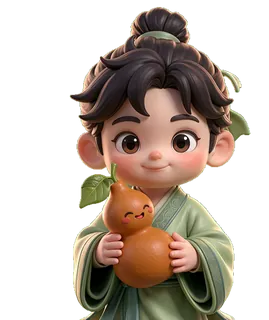
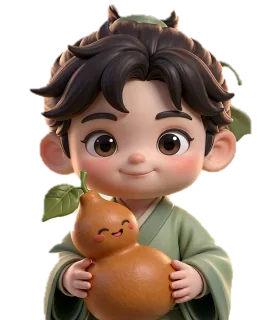
v125-v126: 百草试炼题库扩充至104题(安全分级/体质禁忌/现代药理风险/名方/经络/四时/本草辨识);删互动金句四季装束前缀;经典待机图与互动动图重做大头半身形象(与四季统一,点击零跳变)

diff --git a/common.js b/common.js
@@ -1933,7 +1933,7 @@ function go(p){location.href=(p==="home"?"index":p)+".html";}
     const k=curSkin,sk=SKINS[k];
     let t;
     if(tipSkin!==k){
-      if(sk.season){const g=SEASON_GREET[sk.season];t=`【${sk.season}季装束 · ${sk.name}】「${g.q}」${g.w}`;}
+      if(sk.season){const g=SEASON_GREET[sk.season];t=`「${g.q}」${g.w}`;}
       else t=pick(TIPS);
       tipSkin=k;
     }else t=pick(SKIN_TIPS[k]);
@@ -2025,7 +2025,13 @@ const BOOK_QS=[
  {q:"\u201c凡病温者，始于上焦，在手太阴\u201d出自？",opts:["温病条辨","伤寒论","难经","千金方"],a:"温病条辨",fb:"温病从口鼻而入、先伤于肺——\u201c清热\u201d一脉的理论总纲。"},
  {q:"《本草纲目》初刊于明代哪一年？",opts:["1578 年","1596 年","1602 年","1612 年"],a:"1596 年",d:1,fb:"1578 年成书、1596 年金陵初刊——52 卷巨著，历时 27 年、三易其稿。"},
  {q:"《黄帝内经》由哪两部分组成？",opts:["《素问》与《灵枢》","《伤寒》与《金匮》","《本经》与《别录》","《甲乙》与《脉经》"],a:"《素问》与《灵枢》",d:1,fb:"《素问》重医理、《灵枢》重经络针刺，二者合称《内经》，中医理论的源头活水。"},
- {q:"被后世誉为\u201c东方药物巨典\u201d的是？",opts:["本草纲目","千金方","温病条辨","神农本草经"],a:"本草纲目",d:1,fb:"《本草纲目》集明代以前药物学之大成，被译成多种文字远播海外。"}
+ {q:"被后世誉为\u201c东方药物巨典\u201d的是？",opts:["本草纲目","千金方","温病条辨","神农本草经"],a:"本草纲目",d:1,fb:"《本草纲目》集明代以前药物学之大成，被译成多种文字远播海外。"},
+ {q:"「观其脉证，知犯何逆，随证治之」这句辨证心法出自？",opts:["伤寒论","黄帝内经","难经","温病条辨"],a:"伤寒论",d:1,fb:"仲景强调辨证论治：看清脉证、随证施治，是《伤寒论》的灵魂。",root:"《伤寒论·太阳病篇》原文「观其脉证，知犯何逆，随证治之」——意为审察脉象证候，辨明曾经误治的偏差，再随证救治，是「辨证论治」四个字最经典的出处。"},
+ {q:"「医之始，本岐黄；灵枢作，素问详」出自哪部入门读物？",opts:["医学三字经","汤头歌诀","难经","本草纲目"],a:"医学三字经",fb:"陈修园把中医源流编成三字韵语，开篇就是这四句。",root:"《医学三字经·医学源流第一》原文「医之始，本岐黄；灵枢作，素问详；难经出，更洋洋；越汉季，有南阳」——把先秦到汉代医史串成三字歌诀，是医史入门第一书。"},
+ {q:"被后世尊称为「药王」的唐代医家是？",opts:["孙思邈","张仲景","李时珍","葛洪"],a:"孙思邈",fb:"孙思邈著《千金方》、立《大医精诚》，被尊为药王。",root:"孙思邈是唐代京兆华原人，以「人命至重，有贵千金」命名《千金方》，开篇《大医精诚》成为中国医德千古典范；相传享年百余岁，民间尊称「药王」。"},
+ {q:"提出「内伤脾胃，百病由生」、创制补中益气汤的医家是？",opts:["李东垣","张仲景","吴鞠通","王清任"],a:"李东垣",d:1,fb:"金元四大家之一、补土派宗师李东垣，著《脾胃论》。",root:"李杲号东垣老人，金元四大家之一。战乱饥馑中他见百姓多因劳倦伤脾致病，遂著《脾胃论》，提出「内伤脾胃，百病由生」，创补中益气汤，被誉「医之有李东垣，如儒家之有孟子」。"},
+ {q:"明末吴又可著《温疫论》，提出哪一致病学说？",opts:["戾气","六淫","七情","疠风"],a:"戾气",d:1,fb:"吴有性提出「戾气」致病，认为瘟疫由特殊之气口鼻而入。",root:"吴有性（字又可）目睹崇祯年间大疫，发现套用伤寒法无效，遂深入疫区观察，著《温疫论》提出「戾气」致病——一种气致一种病、可由口鼻而入，比西方病原微生物学说早了两个多世纪。"},
+ {q:"清代王清任为订正古医书脏腑图，采取了什么实证做法？",opts:["多次赴义冢、刑场实地观察人体","纯靠注释古籍推想","遍访名医口述","依《内经》原文重绘"],a:"多次赴义冢、刑场实地观察人体",d:1,fb:"王清任亲赴义冢刑场观察人体，绘《亲见改正脏腑图》。",root:"王清任（字勋臣）是清代最具实证精神的医家，为订正古书脏腑之误，多次到义冢、刑场实地观察尸体，绘《亲见改正脏腑图》，并据气血理论创血府逐瘀汤等逐瘀诸方，书名直白就叫《医林改错》。"}
 ];
 /* 全站通考点题库：中医药文化知识点（体质辨识、药性理论、养生文化）——每题带 root 根源探究 */
 const SITE_QS=[
@@ -2046,7 +2052,65 @@ const SITE_QS=[
  {q:"湿热质的人面部油腻、口苦口臭，哪种做法最不妥？",opts:["饮食清淡、少油腻","适当用金银花、绿豆清利","长期大量服用黄芩清热","规律作息、少熬夜"],a:"长期大量服用黄芩清热",fb:"湿热质宜清热利湿、饮食清淡；但黄芩苦寒伤胃，长期大量服用反伤脾胃。",root:"本站湿热质档案提醒「请勿自行将黄芩等药材当饭吃，需遵医嘱」；现代药理也提示黄芩苦寒，长期大量可致胃部不适、腹泻——清热也要讲分寸。"},
  {q:"孕妇最应避免自行服用下列哪类药材？",opts:["活血通经、可能动胎的药材","平和的食药两用食材","补气健脾的常规食材","富含纤维的普通食物"],a:"活血通经、可能动胎的药材",fb:"本站多味药标注「孕妇忌用」：如益母草对子宫有兴奋作用、红花活血动血、桃仁有小毒——孕期切莫自行服用。",root:"孕期用药是高风险的领域：本站 HERB_PHARM 里红花、益母草、桃仁、三七等均标「孕妇忌用/慎用」，因为活血、兴奋子宫或含毒性成分可能引起宫缩或出血——这类问题必须当面问妇产科医生。"},
  {q:"本站提示：丹参、三七与抗凝药（如华法林）同用会怎样？",opts:["增强补气效果","可能增加出血风险，须医师指导","完全没有影响","一定能防治血栓"],a:"可能增加出血风险，须医师指导",d:1,fb:"活血类中药与抗凝药叠加可能增加出血风险——正在服西药的人，加中药前先问医生。",root:"这是本站「现代药理风险」提示的重点：丹参、三七、红花等活血药与华法林等抗凝药同用会叠加抗凝作用，可能增加出血风险；「中药天然无毒」是误区，中西药同服必须告知医生。"},
- {q:"关于甘草长期大量服用的现代药理风险，正确的是？",opts:["完全安全，可当日常饮品长期喝","可能引起水钠潴留、血压升高","只会伤肝，与血压无关","越喝越能补气"],a:"可能引起水钠潴留、血压升高",d:1,fb:"甘草长期大剂量可致假性醛固酮增多症——水钠潴留、血压升高，高血压、水肿者尤须慎用。",root:"本站把甘草列为 🟢 药食同源，但在 HERB_PHARM 里明确标注：长期大剂量服用可能引起水钠潴留、血压升高（假性醛固酮增多症）——这就是「绿标也要适量」的最好例证，还反藜芦、反甘遂大戟海藻芫花。"}
+ {q:"关于甘草长期大量服用的现代药理风险，正确的是？",opts:["完全安全，可当日常饮品长期喝","可能引起水钠潴留、血压升高","只会伤肝，与血压无关","越喝越能补气"],a:"可能引起水钠潴留、血压升高",d:1,fb:"甘草长期大剂量可致假性醛固酮增多症——水钠潴留、血压升高，高血压、水肿者尤须慎用。",root:"本站把甘草列为 🟢 药食同源，但在 HERB_PHARM 里明确标注：长期大剂量服用可能引起水钠潴留、血压升高（假性醛固酮增多症）——这就是「绿标也要适量」的最好例证，还反藜芦、反甘遂大戟海藻芫花。"},
+ {q:"本站 🟡 黄标「常用本草·需辨体质」的正确理解是？",opts:["完全无毒可随意久服","各有偏性须辨证、入膳少量短期","只能外用不可入口","孕妇儿童都能长期进补"],a:"各有偏性须辨证、入膳少量短期",fb:"黄标药各有偏性，须结合体质辨证，久服遵医嘱。",root:"本站 SAFE_META 定义黄标为「常用本草·需辨体质」：这类药是临床常用中药材，各有偏性，须结合体质与证候辨证使用；入膳宜少量、短期，久服或用于调理请遵医嘱。"},
+ {q:"下列哪味药在本站被标为 🔴 红标（特殊/有毒）？",opts:["半夏","生姜","大枣","山药"],a:"半夏",fb:"半夏生品有毒，须姜矾炮制并遵医嘱，属红标。",root:"本站红标共四味：麻黄、半夏、大黄、桃仁。半夏生品有毒，误食可致口舌麻木、喉头水肿甚至窒息，须经姜、矾等炮制并遵医嘱使用，反乌头——正是「特殊/有毒须遵医嘱」的典型。"},
+ {q:"本站本草名录的 🔴 红标药一共有几味？",opts:["2 味","4 味","8 味","12 味"],a:"4 味",d:1,fb:"红标共四味：麻黄、半夏、大黄、桃仁。",root:"查本站 HERB_SAFE 分级，special（红标）恰好四味：麻黄、半夏、大黄、桃仁——或含毒性成分、或药性峻猛、或有成瘾与出血风险，本站仅作学术科普，严禁自行服用。"},
+ {q:"下列哪一组药全部属于本站 🟢 绿标（药食同源）？",opts:["山药、莲子、生姜","麻黄、半夏、大黄","当归、川芎、桃仁","石膏、黄连、附子"],a:"山药、莲子、生姜",fb:"山药莲子生姜都是日常可食的药食同源之品。",root:"本站绿标（food）多为日常食材或药食两用之品，山药、莲子、生姜、大枣、枸杞子等皆在其中；而麻黄、半夏、大黄是红标，当归、川芎是黄标——绿标的核心是「药性平和、可入膳」。"},
+ {q:"关于 🟢 绿标药「药食同源」，下列哪项说法正确？",opts:["绿标绝对安全，可无限量长期吃","仍需辨体质、适量，甘草大量可升压","绿标药不能做任何菜","绿标药孕妇儿童都能随意进补"],a:"仍需辨体质、适量，甘草大量可升压",d:1,fb:"绿标不代表零风险——甘草长期大量服用可升高血压。",root:"本站每味绿标药都附体质标签与禁忌：甘草虽是绿标，但 HERB_PHARM 明确标注长期大剂量可致水钠潴留、血压升高（假性醛固酮增多症）；生姜腐烂含黄樟素、白扁豆生品含凝集素——「是药三分毒」，绿标也要适量。"},
+ {q:"本站对 🔴 红标药的展示口径是？",opts:["仅作学术科普、严禁自行服用，须医师处方","鼓励日常泡水代茶饮","可作为食疗推荐","可自行采买配伍"],a:"仅作学术科普、严禁自行服用，须医师处方",fb:"红标药本站仅作学术科普，切勿自行采买服用。",root:"本站 SAFE_META 明确：红标药「具有毒性或药性峻猛，本站仅作学术科普展示，切勿自行采买、配伍或服用；须凭执业医师处方并在专业指导下使用」——这是安全分级最硬的一条红线。"},
+ {q:"阳虚质的人最适合的调养方向是？",opts:["温阳散寒、晒背保暖","大量饮冷茶清热","长期熬夜耗阴","久居阴冷潮湿"],a:"温阳散寒、晒背保暖",fb:"阳虚畏寒喜暖，宜温阳散寒、晒背艾灸、食生姜羊肉。",root:"本站阳虚质档案：阳气不足、畏寒喜暖、手足不温，宜温阳散寒、晒背、保暖、艾灸下焦，可食生姜、羊肉等温性食物；忌生冷瓜果、久处阴冷与过用寒凉。"},
+ {q:"阳虚质最应避开的是？",opts:["生冷瓜果、久处阴冷","晒背和温补","艾灸关元","温性食物"],a:"生冷瓜果、久处阴冷",fb:"阳虚忌生冷与阴冷环境。",root:"阳虚质「阳虚则外寒」，本站 TZ_EXTRA 明确其禁忌为忌生冷瓜果、久处阴冷与过用寒凉——阳气本就不足，再贪凉只会雪上加霜。"},
+ {q:"阴虚质的典型表现是？",opts:["手足心热、口干咽燥、易失眠","畏寒肢冷、喜热饮","身重困倦、口黏苔腻","面色萎黄、气短乏力"],a:"手足心热、口干咽燥、易失眠",fb:"阴虚生内热，故手足心热、口干、盗汗失眠。",root:"本站阴虚质画像：阴液亏少、手足心热、口干咽燥、潮热盗汗、易失眠、舌红少津——「阴虚则热」是阴不制阳、虚火内生的表现，宜滋阴润燥、忌熬夜辛辣。"},
+ {q:"按本站对应关系，阴虚质的调养基础方是？",opts:["六味地黄丸","四君子汤","二陈汤","玉屏风散"],a:"六味地黄丸",d:1,fb:"阴虚宜滋阴补肾，对应六味地黄丸。",root:"本站 CONSTITUTIONS 为阴虚质配的书是「六味地黄丸」，TZ_EXTRA 的方剂 f 也是六味地黄丸——三补三泻、滋阴补肾，正对阴虚火旺、腰膝酸软、盗汗遗精之证。"},
+ {q:"痰湿质的典型表现是？",opts:["体形偏胖、腹部松软、口黏苔腻","皮肤干燥、口干舌红","面色晦暗、瘀斑固定","神情抑郁、胸胁胀满"],a:"体形偏胖、腹部松软、口黏苔腻",fb:"痰湿凝聚，故体胖腹软、身重口黏、苔白厚腻。",root:"本站痰湿质画像：痰湿凝聚、体形偏胖、腹部松软、身重不爽、口黏、舌苔白厚腻——「胖人多痰湿」，宜健脾祛湿、微汗运动，忌甜腻油荤与久坐。"},
+ {q:"按本站对应关系，痰湿质的调养基础方是？",opts:["二陈汤","六味地黄丸","血府逐瘀汤","逍遥散"],a:"二陈汤",d:1,fb:"痰湿宜燥湿化痰，对应二陈汤。",root:"本站 TZ_EXTRA 为痰湿质配方「二陈汤」——半夏、陈皮以陈久者良，燥湿化痰、理气和中，是治湿痰的基础方，正合痰湿质健脾祛湿之需。"},
+ {q:"血瘀质适合的日常食材是？",opts:["山楂、黑木耳","冷饮、冰品","肥甘厚味","生冷瓜果"],a:"山楂、黑木耳",fb:"血瘀宜活血，山楂黑木耳是常见活血食材。",root:"本站血瘀质档案建议「可适当食用山楂、黑木耳等活血食材」——血瘀质肤色晦暗、易生瘀斑、痛处固定如刺，宜行气活血、多舒展运动，忌久坐久卧与寒凝血涩。"},
+ {q:"按本站对应关系，血瘀质的调养基础方是？",opts:["血府逐瘀汤","补中益气汤","小柴胡汤","藿香正气散"],a:"血府逐瘀汤",d:1,fb:"血瘀宜活血化瘀，对应王清任血府逐瘀汤。",root:"本站 TZ_EXTRA 为血瘀质配方「血府逐瘀汤」——出自王清任《医林改错》，活血化瘀、行气止痛，主治胸中血瘀、痛如针刺而有定处，是活血逐瘀的代表方。"},
+ {q:"按本站对应关系，气郁质的调养基础方是？",opts:["逍遥散","六味地黄丸","二陈汤","肾气丸"],a:"逍遥散",d:1,fb:"气郁宜疏肝解郁，对应逍遥散。",root:"本站 TZ_EXTRA 为气郁质配方「逍遥散」——柴胡、当归、白芍等疏肝解郁、养血健脾，主治肝郁血虚脾弱之两胁作痛、神疲食少、月经不调，「逍遥」二字即谓肝郁得疏则身心逍遥。"},
+ {q:"按本站对应关系，特禀质的调养基础方是？",opts:["玉屏风散","四物汤","龙胆泻肝汤","补中益气汤"],a:"玉屏风散",d:1,fb:"特禀易过敏，宜益气固表，对应玉屏风散。",root:"本站 TZ_EXTRA 为特禀质配方「玉屏风散」——黄芪、白术、防风三味如御风之屏障，益气固表止汗，适合表虚不固、易感风邪者；特禀质重在避开过敏原、益气固表，忌盲目进补。"},
+ {q:"特禀质日常调养最关键的是？",opts:["避开明确过敏原、记录诱因并益气固表","大量进补名贵药材","频繁试用新药新食","长期熬夜不忌口"],a:"避开明确过敏原、记录诱因并益气固表",fb:"特禀质重在避过敏原、益气固表、记录诱因。",root:"本站特禀质档案：先天禀赋特殊、易过敏，宜益气固表、饮食清淡、规律作息并记录诱因，避开明确致敏之物；忌盲目进补、随意试用新药新食——即使用玉屏风类成药也须遵医嘱。"},
+ {q:"平和质的调养原则是？",opts:["不必刻意进补，顺应四时、饮食有节即可","长期大温大寒进补","大量服活血药","严格忌口只吃素食"],a:"不必刻意进补，顺应四时、饮食有节即可",fb:"平和质阴阳调和，保持规律作息即可，无需刻意进补。",root:"本站 TZ_EXTRA 平和质档案：体态适中、面色红润、精力充沛，对外界适应力强；调养只需「顺应四时，食饮有节、起居有常，保持适度运动」，不必刻意进补，忌长期大温大寒或过食肥甘。"},
+ {q:"按本站九种体质分组，气虚质、阳虚质、阴虚质同属哪一类？",opts:["虚性偏颇（deficient）","实性偏颇（excess）","特禀类","平和类"],a:"虚性偏颇（deficient）",d:1,fb:"九分法把气虚阳虚阴虚归为虚性偏颇体质。",root:"本站 TZ_EXTRA 用 g 字段给体质分组：平和质为 balanced；气虚、阳虚、阴虚为 deficient（虚性偏颇）；痰湿、湿热、血瘀、气郁为 excess（实性偏颇）；特禀为 special——这是本站体质卡分组着色的依据。"},
+ {q:"按本站九种体质分组，痰湿质、湿热质、血瘀质、气郁质同属哪一类？",opts:["实性偏颇（excess）","虚性偏颇（deficient）","平和类","特禀类"],a:"实性偏颇（excess）",d:1,fb:"这四种同属实性偏颇体质。",root:"本站 TZ_EXTRA 的 g 分组：痰湿、湿热、血瘀、气郁均为 excess（实性偏颇），多因痰、湿、瘀、郁等病理产物积聚；调养以祛邪为主——健脾祛湿、清热利湿、活血化瘀、疏肝理气。"},
+ {q:"本站提示：大黄长期大量服用可能导致什么？",opts:["电解质紊乱、结肠黑变病及药物依赖","增强免疫力","补气养血","毫无影响"],a:"电解质紊乱、结肠黑变病及药物依赖",d:1,fb:"大黄含蒽醌类，久服可致结肠黑变病与依赖。",root:"本站 HERB_PHARM 标注：大黄含蒽醌类成分，长期大量服用可能导致电解质紊乱、结肠黑变病及药物依赖；脾胃虚弱、气血亏虚、孕妇及哺乳期忌用，不宜久服——「大黄泻火」须中病即止。"},
+ {q:"桃仁（本站标「有小毒」）所含的毒性相关成分是？",opts:["苦杏仁苷","麻黄碱","黄樟素","凝集素"],a:"苦杏仁苷",d:1,fb:"桃仁含苦杏仁苷，生品或大量可致头晕恶心。",root:"本站 HERB_PHARM：桃仁含苦杏仁苷，生品或大量服用可致头晕、恶心甚至呼吸抑制（有小毒）；须炮制、打碎并控制用量，孕妇忌用，血虚无瘀者不宜——这就是本站把桃仁列红标的原因。"},
+ {q:"半夏生品误食可能出现的反应是？",opts:["口舌麻木、喉头水肿甚至窒息","只是微苦无碍","轻度提神","完全无毒"],a:"口舌麻木、喉头水肿甚至窒息",fb:"半夏生品有毒，误食可致口舌麻木、喉头水肿。",root:"本站 HERB_PHARM：半夏生品有毒，误食可致口舌麻木、喉头水肿甚至窒息；须经姜、矾等炮制并遵医嘱使用，反乌头，阴虚燥咳、血证者慎用——生品绝不可自行食用。"},
+ {q:"白扁豆生品未煮熟可能引起什么？",opts:["恶心、呕吐、腹痛","增强食欲","补气见效","无任何风险"],a:"恶心、呕吐、腹痛",fb:"白扁豆生品含凝集素，须彻底煮熟。",root:"本站 HERB_PHARM：白扁豆生品含凝集素，未煮熟可能引起恶心、呕吐、腹痛；须彻底加热煮熟，寒热病邪未尽者慎用——长夏祛湿常食，但一定煮透。"},
+ {q:"本站提示：酸枣仁与镇静催眠药同用会？",opts:["可能增强作用，服药期间避免驾驶","完全抵消药效","毫无影响","必定中毒"],a:"可能增强作用，服药期间避免驾驶",d:1,fb:"酸枣仁与镇静药同用可能增强作用，需防嗜睡。",root:"本站 HERB_PHARM：酸枣仁有实邪郁火者慎用，与镇静催眠药同用可能增强作用，服药期间避免驾驶或操作机械——这说明「助眠食疗」与西药同服也要小心叠加效应。"},
+ {q:"麻黄被列红标、运动员慎用，主要因其含？",opts:["麻黄碱","苦杏仁苷","蒽醌","呋喃香豆素"],a:"麻黄碱",d:1,fb:"麻黄含麻黄碱，兴奋中枢与心血管。",root:"本站 HERB_PHARM：麻黄含麻黄碱，可兴奋中枢与心血管；高血压、心脏病、失眠及孕妇慎用，运动员慎用（属兴奋剂管控），切勿自行配伍服用——这是它被列红标的核心原因。"},
+ {q:"益母草为何被本站标注「孕妇忌用」？",opts:["对子宫有兴奋作用，可能引起宫缩","味道太苦","含糖量高","会伤胃"],a:"对子宫有兴奋作用，可能引起宫缩",fb:"益母草兴奋子宫，孕妇忌用。",root:"本站 HERB_PHARM：益母草对子宫有兴奋作用，孕妇忌用（可能引起宫缩）；血虚无瘀、阴虚血少者慎用——产后调理常用，但孕期绝不可自行服用。"},
+ {q:"本站提示白芷含呋喃香豆素，光敏性皮肤者应注意？",opts:["外用或大量后避免强光曝晒","多晒太阳有助药效","完全无需防护","只能夜间入药"],a:"外用或大量后避免强光曝晒",d:1,fb:"白芷含光敏成分，用后应避免强光暴晒。",root:"本站 HERB_PHARM：白芷辛温、阴虚血热者忌用，含呋喃香豆素，光敏性皮肤者外用或大量后避免强光曝晒——这是「是药三分毒」在皮肤上的体现，也提醒外用中药并非绝对安全。"},
+ {q:"腐烂的生姜不可食用，主要因其可能含？",opts:["黄樟素","苦杏仁苷","麻黄碱","凝集素"],a:"黄樟素",d:1,fb:"腐烂生姜含黄樟素，不可食用。",root:"本站 HERB_PHARM 与 HERB_NOTE 均提示：生姜夜间不宜多食，腐烂生姜不可食用（含黄樟素）——日常「早上一片姜」是对的，但烂姜绝不能将就。"},
+ {q:"关于人参「闭门留寇」，下列理解正确的是？",opts:["实证、热证而正气不虚者服人参可能加重不适","人参对任何人都大补有益","人参人人宜长期大量服","人参可代替所有食疗"],a:"实证、热证而正气不虚者服人参可能加重不适",d:1,fb:"实证热证正气不虚者服人参反会留邪。",root:"本站 HERB_PHARM：人参常规用量安全，但实证、热证而正气不虚者服用可能「闭门留寇」、加重不适；反藜芦、畏五灵脂，不宜与萝卜、浓茶同服，高血压未控者慎用——补药也要辨证，不是人人皆宜。"},
+ {q:"被誉为「群方之冠」、主治太阳中风表虚证的方剂是？",opts:["桂枝汤","麻黄汤","小柴胡汤","白虎汤"],a:"桂枝汤",fb:"桂枝汤解肌发表、调和营卫，被誉为群方之冠。",root:"本站 FORMULAS：桂枝汤由桂枝、芍药、生姜、大枣、炙甘草组成，解肌发表、调和营卫，主治太阳中风表虚证（发热恶风、汗出、脉浮缓），被誉为「群方之冠」；方后嘱「啜热稀粥以助药力」，体现仲景护胃气之巧思。"},
+ {q:"四君子汤的组成是？",opts:["人参（或党参）、白术、茯苓、炙甘草","熟地、当归、白芍、川芎","柴胡、黄芩、半夏、生姜","黄芪、白术、防风"],a:"人参（或党参）、白术、茯苓、炙甘草",d:1,fb:"四君：人参白术茯苓炙甘草，益气健脾。",root:"本站 FORMULAS：四君子汤出自《太平惠民和剂局方》，由人参（或党参）、白术、茯苓、炙甘草四味平和之品组成，取「君子致中和」之义，益气健脾，是补气剂的基础方，后世诸多补气健脾方多从此化裁。"},
+ {q:"六味地黄丸「三补三泻」中的「三补」是？",opts:["熟地黄、山萸肉、山药","泽泻、牡丹皮、茯苓","人参、白术、甘草","当归、川芎、白芍"],a:"熟地黄、山萸肉、山药",d:1,fb:"三补为熟地、山萸肉、山药；三泻为泽泻、丹皮、茯苓。",root:"本站 FORMULAS：六味地黄丸由熟地黄、山萸肉、山药（三补）与泽泻、牡丹皮、茯苓（三泻）组成，滋补肾阴、补而不滞；原为钱乙《小儿药证直诀》儿科「地黄丸」，后世广泛用于肾阴亏虚之腰膝酸软、头晕耳鸣、盗汗遗精。"},
+ {q:"八珍汤是哪两首基础方合方而成？",opts:["四君子汤合四物汤","桂枝汤合麻黄汤","小柴胡汤合白虎汤","二陈汤合玉屏风散"],a:"四君子汤合四物汤",fb:"四君补气、四物补血，合为八珍气血双补。",root:"本站 FORMULAS：八珍汤（明·薛己《正体类要》）由四君子汤合四物汤而成——四君补气、四物补血，气血双补，主治气血两虚之面色苍白、气短乏力、头晕心悸，「气旺则生血、血足则载气」。"},
+ {q:"小柴胡汤的功效是？",opts:["和解少阳","清热凉血","温补肾阳","燥湿化痰"],a:"和解少阳",fb:"小柴胡汤和解少阳，主治往来寒热、胸胁苦满。",root:"本站 FORMULAS：小柴胡汤出自《伤寒论》，由柴胡、黄芩、半夏、生姜、人参、大枣、炙甘草组成，和解少阳，主治少阳病之往来寒热、胸胁苦满、默默不欲饮食、心烦喜呕，是「和法」的典范方。"},
+ {q:"玉屏风散的组成是？",opts:["黄芪、白术、防风","人参、白术、茯苓","当归、熟地、川芎","半夏、陈皮、茯苓"],a:"黄芪、白术、防风",fb:"玉屏风散黄芪白术防风，益气固表止汗。",root:"本站 FORMULAS：玉屏风散由黄芪、白术、防风三味组成，益气固表止汗，三味如御风之屏障故名「玉屏风」，主治表虚不固、自汗恶风、易感风邪者——也是本站特禀质、易感冒人群的对应方。"},
+ {q:"二陈汤之名，源于方中哪两味「以陈久者良」？",opts:["半夏、陈皮","茯苓、甘草","生姜、乌梅","桔梗、枳壳"],a:"半夏、陈皮",d:1,fb:"半夏、陈皮以陈久者良，故名二陈。",root:"本站 FORMULAS：二陈汤出自《太平惠民和剂局方》，由半夏、陈皮、茯苓、炙甘草组成（生姜、乌梅为引），燥湿化痰、理气和中，是化痰基础方；方中半夏、陈皮以陈久者良，故名「二陈」。"},
+ {q:"血府逐瘀汤出自哪部著作？",opts:["王清任《医林改错》","张仲景《伤寒论》","李东垣《脾胃论》","吴鞠通《温病条辨》"],a:"王清任《医林改错》",d:1,fb:"血府逐瘀汤出自王清任《医林改错》。",root:"本站 FORMULAS：血府逐瘀汤出自清代王清任《医林改错》，活血化瘀、行气止痛，主治胸中血瘀之胸痛、头痛日久不愈、痛如针刺而有定处——王清任据实地观察脏腑创逐瘀诸方，是清代实证精神的代表。"},
+ {q:"补中益气汤体现了哪位医家「内伤脾胃，百病由生」的思想？",opts:["李东垣","张仲景","孙思邈","吴又可"],a:"李东垣",d:1,fb:"李东垣创补中益气汤，补中益气、升阳举陷。",root:"本站 FORMULAS：补中益气汤出自金元李东垣《脾胃论》，由黄芪、白术、陈皮、升麻、柴胡等组成，补中益气、升阳举陷，主治脾虚气陷之体倦乏力、久泻、脏器下垂——正是「内伤脾胃，百病由生」的代表方。"},
+ {q:"龙胆泻肝汤的功效是？",opts:["清泻肝胆实火、清利肝胆湿热","益气健脾","滋阴润肺","和解少阳"],a:"清泻肝胆实火、清利肝胆湿热",fb:"龙胆泻肝汤泻肝胆实火、利肝胆湿热。",root:"本站 FORMULAS：龙胆泻肝汤（清·汪昂《医方集解》）清泻肝胆实火、清利肝胆湿热，主治肝胆火旺、湿热下注之胁痛口苦、耳聋耳肿、小便淋浊——泻中有补、利中有滋，防苦寒伤阴；本站湿热质亦常对应此方思路。"},
+ {q:"归脾汤主治什么证候？",opts:["心脾两虚、气血不足","肝胆湿热","肺热咳嗽","肾阳不足"],a:"心脾两虚、气血不足",fb:"归脾汤益气补血、健脾养心，治心脾两虚。",root:"本站 FORMULAS：归脾汤（宋·严用和《济生方》）益气补血、健脾养心，主治心脾两虚、气血不足之心悸怔忡、失眠健忘、食少体倦、面色萎黄——补血而不滞气，健脾而不碍运。"},
+ {q:"针灸口诀「肚腹三里留」指的是哪个穴位？",opts:["足三里","合谷","委中","列缺"],a:"足三里",fb:"肚腹疾患找足三里，健脾和胃、保健要穴。",root:"本站 ACUP：足三里属足阳明胃经，为胃经合穴，「肚腹三里留」——健脾和胃、扶正培元、通经活络，是最常用的保健要穴，民间有「常灸足三里，胜吃老母鸡」之谚。"},
+ {q:"口诀「面口合谷收」指的是哪个穴位？",opts:["合谷","足三里","太冲","风池"],a:"合谷",fb:"头面口齿疾患找合谷，孕妇慎用。",root:"本站 ACUP：合谷属手阳明大肠经，为大肠经原穴，「面口合谷收」——镇静止痛、通经活络、解表清热，牙痛、头痛、面瘫等头面病症常用；孕妇慎用。与太冲并称「四关」。"},
+ {q:"口诀「腰背委中求」指的是哪个穴位？",opts:["委中","百会","内关","涌泉"],a:"委中",fb:"腰背疼痛找委中，舒筋通络。",root:"本站 ACUP：委中属足太阳膀胱经，为膀胱经合穴，「腰背委中求」——舒筋通络、凉血泄热，腰背疼痛、下肢痿痹及急性腰扭伤常用，位于腘横纹中点（膝后窝中央）。"},
+ {q:"口诀「头项寻列缺」指的是哪个穴位？",opts:["列缺","合谷","关元","三阴交"],a:"列缺",fb:"头痛项强找列缺，疏风解表、宣肺利咽。",root:"本站 ACUP：列缺属手太阴肺经，为肺经络穴、八脉交会穴（通任脉），「头项寻列缺」——疏风解表、宣肺利咽、通调任脉，头痛项强、咳嗽咽喉肿痛常用。"},
+ {q:"三阴交是哪三条阴经的交会穴？",opts:["脾、肝、肾","心、肺、肝","胃、胆、膀胱","大肠、小肠、三焦"],a:"脾、肝、肾",d:1,fb:"三阴交为脾肝肾三阴交会，妇科第一要穴，孕妇禁针。",root:"本站 ACUP：三阴交属足太阴脾经，是脾、肝、肾三条阴经的交会穴——健脾益血、调肝补肾、调经止带，为妇科第一要穴；位于内踝尖上3寸、胫骨内侧缘后方，孕妇禁针。"},
+ {q:"涌泉穴名取义「肾经之气如源泉之水涌出足下」，它位于？",opts:["足底前1/3凹陷处","头顶正中","腕横纹上2寸","膝后腘窝"],a:"足底前1/3凹陷处",fb:"涌泉在足底前1/3凹陷，引火归元、宁神助眠。",root:"本站 ACUP：涌泉属足少阴肾经，为肾经井穴，位于足底前1/3凹陷处；肾经之气如源泉之水涌出足下，故名——引火归元、滋阴降火、宁神开窍，睡前按揉或艾灸可助眠、引虚火下行。"},
+ {q:"《素问·四气调神大论》说「夏三月，此谓蕃秀」，其作息调神要点是？",opts:["夜卧早起，无厌于日，使志无怒","早卧晚起，必待日光","早卧早起，与鸡俱兴","安卧少动，闭藏不出"],a:"夜卧早起，无厌于日，使志无怒",d:1,fb:"夏三月夜卧早起、不厌日光、保持心志平和。",root:"本站 READ_ADD 收录《素问·四气调神大论》夏三月原文：「夏三月，此谓蕃秀。天地气交，万物华实。夜卧早起，无厌于日，使志无怒」——夏季万物繁茂，应晚睡早起、不嫌日光、心志平和不动怒。"},
+ {q:"「冬三月，此谓闭藏……早卧晚起，必待日光」体现的养生原则是？",opts:["顺应四时、冬主闭藏","冬宜大汗耗阳","冬季应熬夜运动","四季作息完全相同"],a:"顺应四时、冬主闭藏",fb:"冬季闭藏，宜早卧晚起、待日出而作。",root:"本站 READ_ADD 冬三月原文：「冬三月，此谓闭藏。水冰地坼，无扰乎阳。早卧晚起，必待日光」——冬天是封藏之季，不要扰动阳气，须等日出再活动，正是「顺应四时」的具体落地。"},
+ {q:"按本站「应时荐读」，冬季主推的书单是？",opts:["伤寒论、黄帝内经、难经","温病条辨、肘后备急方、饮膳正要","医学三字经、汤头歌诀、神农本草经","随息居饮食谱、千金方、本草纲目"],a:"伤寒论、黄帝内经、难经",d:1,fb:"冬主封藏，宜啃硬核经典：伤寒论、内经、难经。",root:"本站 SEASON_READS：冬主封藏、寒证当道，宜啃硬核经典打底子，书单为《伤寒论》《黄帝内经》《难经》；春读入门、夏读清热祛湿、秋读润燥食疗——荐读随四季流转。"},
+ {q:"按本站「应时荐读」，夏季主推的书单是？",opts:["温病条辨、肘后备急方、饮膳正要","伤寒论、黄帝内经、难经","医学三字经、汤头歌诀、神农本草经","随息居饮食谱、千金方、本草纲目"],a:"温病条辨、肘后备急方、饮膳正要",d:1,fb:"夏月暑湿当令，宜读清热祛湿与急救方书。",root:"本站 SEASON_READS：夏月暑湿当令，清热祛湿一脉最应景，急救方书也常翻常新——书单为《温病条辨》《肘后备急方》《饮膳正要》。"},
+ {q:"《灵枢·本神》「智者之养生也」强调要？",opts:["顺四时而适寒暑，和喜怒而安居处","违背四时、任意作息","只靠进补不调情志","常年大汗耗气"],a:"顺四时而适寒暑，和喜怒而安居处",fb:"养生要顺应四时、调和情绪、安于起居。",root:"本站 READ_ADD 收录《灵枢·本神》：「故智者之养生也，必顺四时而适寒暑，和喜怒而安居处，节阴阳而调刚柔」——懂养生的人顺应四时、适应寒暑、调和情绪、安于起居，如此方能长久安康。"},
+ {q:"黄芪饮片的断面特征是？",opts:["金盏银盘、菊花心","朱砂点","金井玉栏","云锦花纹"],a:"金盏银盘、菊花心",d:1,fb:"黄芪断面金盏银盘、皮部菊花心状裂隙。",root:"本站 HERBS 黄芪形貌：圆柱形切片，外皮浅黄白，断面「金盏银盘」、皮部有菊花心状裂隙，味微甜带豆腥气——这是辨别黄芪饮片的经典特征；它补气升阳、固表止汗，被誉为「补气之长」。"},
+ {q:"当归素有「血中圣药」之称，其主要功效是？",opts:["补血活血、调经止痛","清热泻火","利水渗湿","疏风解表"],a:"补血活血、调经止痛",fb:"当归补血活血、调经止痛、润肠通便。",root:"本站 HERBS：当归甘辛温、归肝心脾经，补血活血、调经止痛、润肠通便，素有「血中圣药」之称；断面黄白色、散布棕色油点（朱砂点）、香气浓郁——是妇科调经与补血的要药。"},
+ {q:"甘草在方剂中常见的角色是？",opts:["调和诸药","君药清热","专攻泻下","唯一补气药"],a:"调和诸药",fb:"甘草味甜，常用于调和诸药、润肺和中。",root:"本站 HERBS 与 HERB_NOTE：甘草甘平，润肺和中、调和诸药，因味甜常作汤方调味，「很多家常汤方里都有它」；但它仍是绿标须适量——长期大剂量可致水钠潴留、血压升高。"},
+ {q:"山药的性味与定位，下列正确的是？",opts:["甘平，平补脾肺肾、老幼皆宜","大苦大寒，只可清热","辛大热，只宜寒冬","有毒，须遵医嘱"],a:"甘平，平补脾肺肾、老幼皆宜",fb:"山药甘平，平补三焦，老幼皆宜。",root:"本站 HERBS：山药甘平、归脾肺肾经，补脾养胃、生津益肺、补肾涩精；HERB_NOTE 称其「蒸食、煮粥、炖排骨都相宜……日常平补，老幼皆宜」——是气虚质、平和质常荐的食疗佳品。"},
+ {q:"下列哪味是矿物药、非实热大热证不宜使用？",opts:["石膏","甘草","山药","枸杞子"],a:"石膏",d:1,fb:"石膏是矿物药，清实热大热，脾胃虚寒者忌。",root:"本站 HERB_PHARM：石膏「属矿物药，非实热大热证不宜使用；脾胃虚寒、阴虚内热者服用可能损伤胃气、引起腹泻，切勿自行大量服用」；它也是白虎汤主药——矿物药不可当日常茶饮。"},
+ {q:"枸杞子的主要功效是？",opts:["滋补肝肾、益精明目","发汗解表","燥湿化痰","泻下通便"],a:"滋补肝肾、益精明目",fb:"枸杞子平补肝肾、益精明目，适合日常泡饮。",root:"本站 HERBS：枸杞子甘平、归肝肾经，滋补肝肾、益精明目，为平补之剂，适合日常泡饮；《本草纲目》载「枸杞久服坚筋骨，轻身不老」，陆游亦有枸杞羹之咏——但脾虚湿滞便溏者不宜长期大量。"}
 ];
 /* 根源探究：竞赛/练习题追问药童时从根源讲解——每题对应一条「为什么」的底层说明 */
 const ROOTS={
